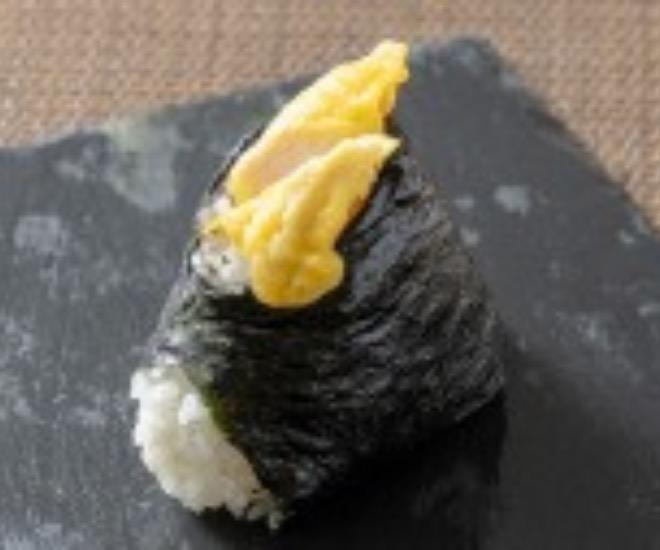
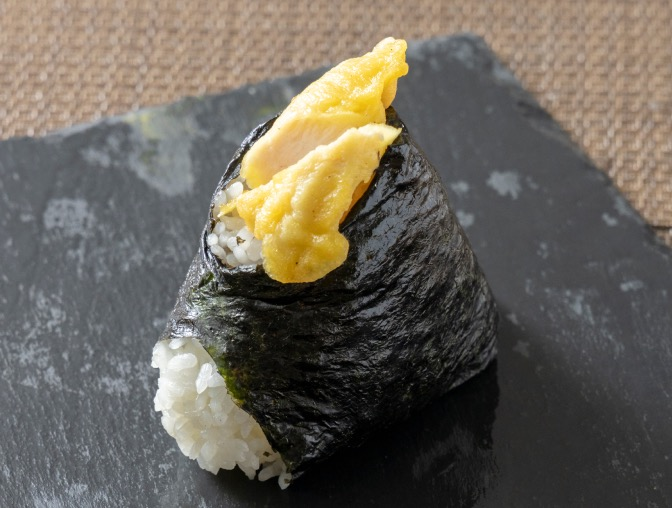
REI commit 2025/09/12 14:33:03

diff --git a/HP/TONYs-Photo/styles.css b/HP/TONYs-Photo/styles.css
@@ -468,7 +468,7 @@ section {
     box-shadow: 0 20px 40px rgba(0, 0, 0, 0.1);
     margin: 0 auto; /* 中央揃え */
     position: relative;
-    left: 5px;
+    left: 2px;
 }
 
 /* Gallery Section */
